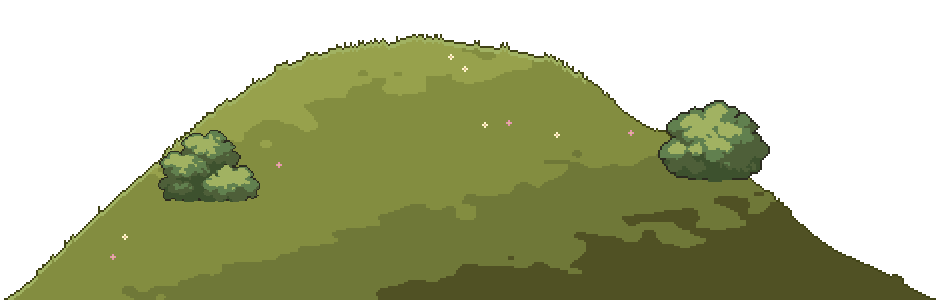
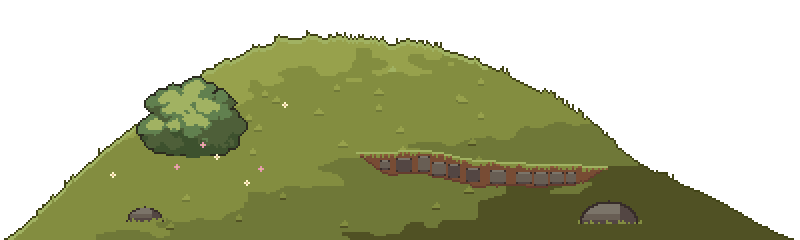
Town: two grass mounds left and right of the blossom tree (wip preview)
Claude-Session: https://claude.ai/code/session_01FzDataYedfiK9tzFLcKdoU

diff --git a/tools/make_town_mound.py b/tools/make_town_mound.py
@@ -1,5 +1,5 @@
 #!/usr/bin/env python3
-# python3 tools/make_town_mound.py [OUT.png]
+# python3 tools/make_town_mound.py [OUT.png W_CELLS H_CELLS PEAK SEED]
 # The grass mound behind the blossom tree (owner 2026-11-10: "뒤로 동산 같은 거 좀 넣어볼까", "동상말고 동산...",
 # drawn here like the slope rather than from a generated picture: "1안해서 한번 보자").
 #  - one round body, its crest left of the middle and its right side the longer, gentler one;
@@ -7,7 +7,11 @@
 #    shaded as a solid - light on the top and the side toward the sun, a step darker band by band toward its foot and
 #    its far side, the bands whole shapes following the round - and its edge is a thin line of the ramp's dark step
 #    with a lit rim under it;
-#  - grass standing up along the crest, two bushes (assets/town/hx, palette already), a few flower clusters.
+#  - so it is not one plain green lump (owner 2026-11-11: "미묘한데" - the picture itself and its place): on its longer
+#    side a bank where the earth shows (row 1) with dry stones (row 8) under a grass lip, as the slope's ledges are; a
+#    few boulders; grass tufts on the body;
+#  - grass standing up along the crest, a bush (assets/town/hx, palette already), a few flower clusters.
+# Two of them, of different sizes, stand left and right of the tree (owner 2026-11-11: "두개 깔기").
 # 2-px cells, palette colours only. Out: assets/town/k_mound.png (town.gd NEAR_BACK puts its foot behind the plaza).
 import os
 import sys
@@ -18,9 +22,12 @@ ROOT = os.path.dirname(os.path.dirname(os.path.abspath(__file__)))
 OUT = sys.argv[1] if len(sys.argv) > 1 else os.path.join(ROOT, "assets/town/k_mound.png")
 P = np.array(Image.open(os.path.join(ROOT, "assets/town/palette.png")).convert("RGB"))
 c = lambda r, i: np.array(P[r, i], np.uint8)
-NC, HC = 470, 150                         # cells: 940 x 300 px
-PEAK, HH = 0.42, 132.0                    # where the crest is (share of the width), its height in cells
-rng = np.random.default_rng(31)
+A = sys.argv[2:]
+NC, HC = (int(A[0]), int(A[1])) if len(A) > 1 else (470, 150)     # cells (2 px)
+PEAK = float(A[2]) if len(A) > 2 else 0.42                        # where the crest is (share of the width)
+SEED = int(A[3]) if len(A) > 3 else 31
+HH = HC - 18.0                                                    # the crest's height in cells
+rng = np.random.default_rng(SEED)
 
 
 def _hash(ix, iy, s):
@@ -42,7 +49,7 @@ xs = np.arange(NC, dtype=float)
 u = xs / (NC - 1)
 t = np.where(u < PEAK, (u - PEAK) / PEAK, (u - PEAK) / (1 - PEAK))          # -1 .. 0 at the crest .. 1
 prof = HH * np.cos(np.pi / 2 * np.abs(t)) ** 1.25
-prof += (vnoise(xs / 46.0, np.full(NC, 2.0), 3) - 0.5) * 9 * np.clip(prof / 30.0, 0, 1)
+prof += (vnoise(xs / 46.0, np.full(NC, 2.0 + SEED), 3) - 0.5) * 9 * np.clip(prof / 30.0, 0, 1)
 prof = np.clip(prof, 0, HC - 8)
 topc = (HC - np.round(prof)).astype(int)                                     # the crest's cell row per column
 
@@ -50,11 +57,11 @@ X, Y = np.meshgrid(xs, np.arange(HC, dtype=float))
 inside = Y >= topc[None, :]
 v = np.clip((HC - Y) / np.maximum(prof[None, :], 1.0), 0, 1)                 # 0 at the foot, 1 on the edge
 # the light: the top and the side toward the sun (upper left); wavy band edges
-n = vnoise(X / 26.0, Y / 9.0, 5) * 0.6 + vnoise(X / 9.0, Y / 4.0, 6) * 0.4
+n = vnoise(X / 26.0, Y / 9.0 + SEED, 5) * 0.6 + vnoise(X / 9.0, Y / 4.0, 6) * 0.4
 lit = 0.62 * (HC - Y) / HH - 0.30 * t[None, :] + (n - 0.5) * 0.16
 
-D2, DK, BODY, LT, RIM, LINE = range(6)
-COL = [c(4, 2), c(4, 3), c(4, 4), c(4, 5), c(4, 6), c(4, 1)]
+D2, DK, BODY, LT, RIM, LINE, E0, E1, E2, S0, S1, S2, SJ = range(13)
+COL = [c(4, 2), c(4, 3), c(4, 4), c(4, 5), c(4, 6), c(4, 1), c(1, 3), c(1, 4), c(1, 5), c(8, 5), c(8, 6), c(8, 7), c(8, 3)]
 lab = np.full((HC, NC), BODY)
 lab[lit < 0.20] = DK
 lab[lit < 0.02] = D2
@@ -66,6 +73,71 @@ for _ in range(3):
     ch = (nb == lab[None]).sum(0) <= 1
     vals = np.stack([(nb == k).sum(0) for k in range(len(COL))])
     lab = np.where(ch, vals.argmax(0), lab)
+
+# grass tufts on the body: 3-5 blades from one root, a step lighter than the ground under them
+for _ in range(NC * HC // 800):
+    x, y = int(rng.integers(8, NC - 8)), int(rng.integers(10, HC - 6))
+    if y < HC - prof[x] + 8: continue
+    und = lab[y, x]
+    if und not in (DK, BODY, LT): continue
+    nb_ = int(rng.integers(3, 6))
+    for b in range(nb_):
+        off = b - nb_ // 2
+        for k in range(max(1, 3 - abs(off))):
+            lab[y - k, x + off] = und + 1
+        lab[y + 1, x + off] = max(D2, und - 1)
+
+# the bank on the longer side: a line that follows the round, a grass lip over earth with dry stones, narrowing to
+# nothing at both ends
+side = (u > PEAK + 0.04) if PEAK < 0.5 else (u < PEAK - 0.04)
+by = HC - HH * 0.36 - (prof - HH * 0.6) * 0.12 + (vnoise(xs / 30.0, np.full(NC, 6.0), 23 + SEED) - 0.5) * 6
+ok = side & (prof > (HC - by) + 14)
+dist = np.zeros(NC); run = 0
+for i in range(NC):
+    run = run + 1 if ok[i] else 0; dist[i] = run
+run = 0
+for i in range(NC - 1, -1, -1):
+    run = run + 1 if ok[i] else 0; dist[i] = min(dist[i], run)
+tp = np.clip(dist / 22.0, 0, 1); tp = tp * tp * (3 - 2 * tp)
+dep = np.round((8 + 5 * vnoise(xs / 15.0, np.full(NC, 4.0), 21 + SEED)) * tp).astype(int)
+for i in range(NC):
+    d = dep[i]
+    if d <= 0: continue
+    y = int(by[i])
+    for j in range(d):
+        lab[y + j, i] = E2 if j < 1 else (E1 if j < d - 1 else E0)
+    lab[y - 1, i] = RIM
+    for j in range(int(_hash(np.int64(i), np.int64(3), 29) * 3.0)): lab[y + j, i] = BODY      # grass hanging over the lip
+i0, i1 = 0, NC
+bank = np.isin(lab, (E0, E1, E2))
+i = i0
+while i < i1:
+    L = int(rng.integers(5, 9))
+    col = bank[:, i:i + L]
+    if rng.random() < 0.55 and col.any(0).all() and col.sum(0).min() >= 5:
+        y0 = int(max(np.argmax(col[:, q]) for q in range(L))) + 1
+        y1 = int(min(np.argmax(col[:, q]) + col[:, q].sum() for q in range(L))) - 1
+        body = S1 if rng.random() < 0.7 else S0
+        for q in range(L):
+            for y in range(y0, y1):
+                cor = (q in (0, L - 1)) and (y in (y0, y1 - 1))
+                lab[y, i + q] = SJ if cor else (S2 if y == y0 else (S0 if y == y1 - 1 else body))
+        i += L + 1
+    else:
+        i += 2
+
+# boulders half sunk in the grass: a rounded body, its top lit, its foot dark, grass in front of the foot
+for ub, rw, rh in ((PEAK - 0.34 if PEAK > 0.5 else PEAK + 0.36, 15, 11), (PEAK + 0.14 if PEAK > 0.5 else PEAK - 0.22, 9, 7)):
+    cx = int(ub * NC)
+    if not (rw < cx < NC - rw): continue
+    cy = int(HC - prof[cx] * 0.16)
+    for y in range(cy - rh, cy + 1):
+        for x in range(cx - rw, cx + rw + 1):
+            q = ((x - cx) / rw) ** 2 + ((y - cy) / rh) ** 2
+            if q > 1 or not (0 <= y < HC): continue
+            lab[y, x] = SJ if q > 0.80 else (S2 if (y - cy) / rh < -0.45 and (x - cx) / rw < 0.4 else (S0 if (x - cx) / rw > 0.35 or y > cy - 2 else S1))
+    for x in range(cx - rw - 1, cx + rw + 2):
+        if _hash(np.int64(x), np.int64(cy), 37) > 0.4: lab[cy - int(_hash(np.int64(x), np.int64(1), 39) * 1.6):cy + 1, x] = BODY
 
 # grass standing up along the crest: short blades in clumps
 blade = np.zeros(NC, int)
@@ -93,7 +165,7 @@ img[..., 3] = np.where(alpha, 255, 0)
 big = img.repeat(2, 0).repeat(2, 1)
 
 # bushes on the mound's side, flower clusters on its lit part
-for name, ux, sc in (("f_bush3", 0.70, 1.0), ("f_bush2", 0.17, 0.75)):
+for name, ux, sc in ((("f_bush3", 0.17, 1.0),) if PEAK < 0.5 else (("f_bush2", 0.66, 1.0),)):
     b = Image.open(os.path.join(ROOT, f"assets/town/hx/{name}.png")).convert("RGBA")
     if sc != 1.0: b = b.resize((int(b.width * sc) // 2 * 2, int(b.height * sc) // 2 * 2), Image.NEAREST)
     b = np.array(b)
@@ -107,7 +179,7 @@ for _ in range(16):
     ci = int(rng.integers(30, NC - 30))
     if prof[ci] < 30: continue
     yy = int(rng.integers(topc[ci] + 6, HC - 12))
-    if lab[yy, ci] not in (BODY, LT): continue
+    if lab[yy - 1:yy + 2, ci - 1:ci + 2].min() < BODY or lab[yy - 1:yy + 2, ci - 1:ci + 2].max() > LT: continue
     col = c(7, 5) if rng.random() < 0.4 else c(3, 7)
     for dy, dx in ((-1, 0), (0, -1), (0, 1), (1, 0)):
         big[(yy + dy) * 2:(yy + dy) * 2 + 2, (ci + dx) * 2:(ci + dx) * 2 + 2, :3] = col

diff --git a/docs/work/town-art/MEMO.md b/docs/work/town-art/MEMO.md
@@ -204,3 +204,5 @@
   → 적용(미리보기, wip): tools/make_town_mound.py로 풀 동산을 직접 그림(940×300px, 풀 램프만, 짙은 풀색 외곽선 + 밝은 테, 덤불 2, 꽃). 꽃나무 뒤 오른쪽(NEAR_BACK, x 2960).
 - 2026-11-11: (풀 동산 미리보기에) "미묘한데"
   → (어느 쪽이 미묘한지 물음: 그림 자체 / 위치·크기 / 동산이라는 안 자체) 오너 선택: "그림 자체", "위치·크기". 동산 안은 유지.
+- 2026-11-11: (위치 세 안 — 나무를 동산 위에 / 나무 옆으로 빼기 / 낮고 길게 깔기 — 에) "두개 깔기"
+  → 적용(미리보기, wip): 동산 둘을 나무 왼쪽(k_mound2, 580×190px)·오른쪽(k_mound, 800×240px)에 크기 다르게. 그림에 흙이 드러난 턱(돌 포함)·바위·풀포기 추가. "두개"를 좌우 하나씩으로 읽음.
